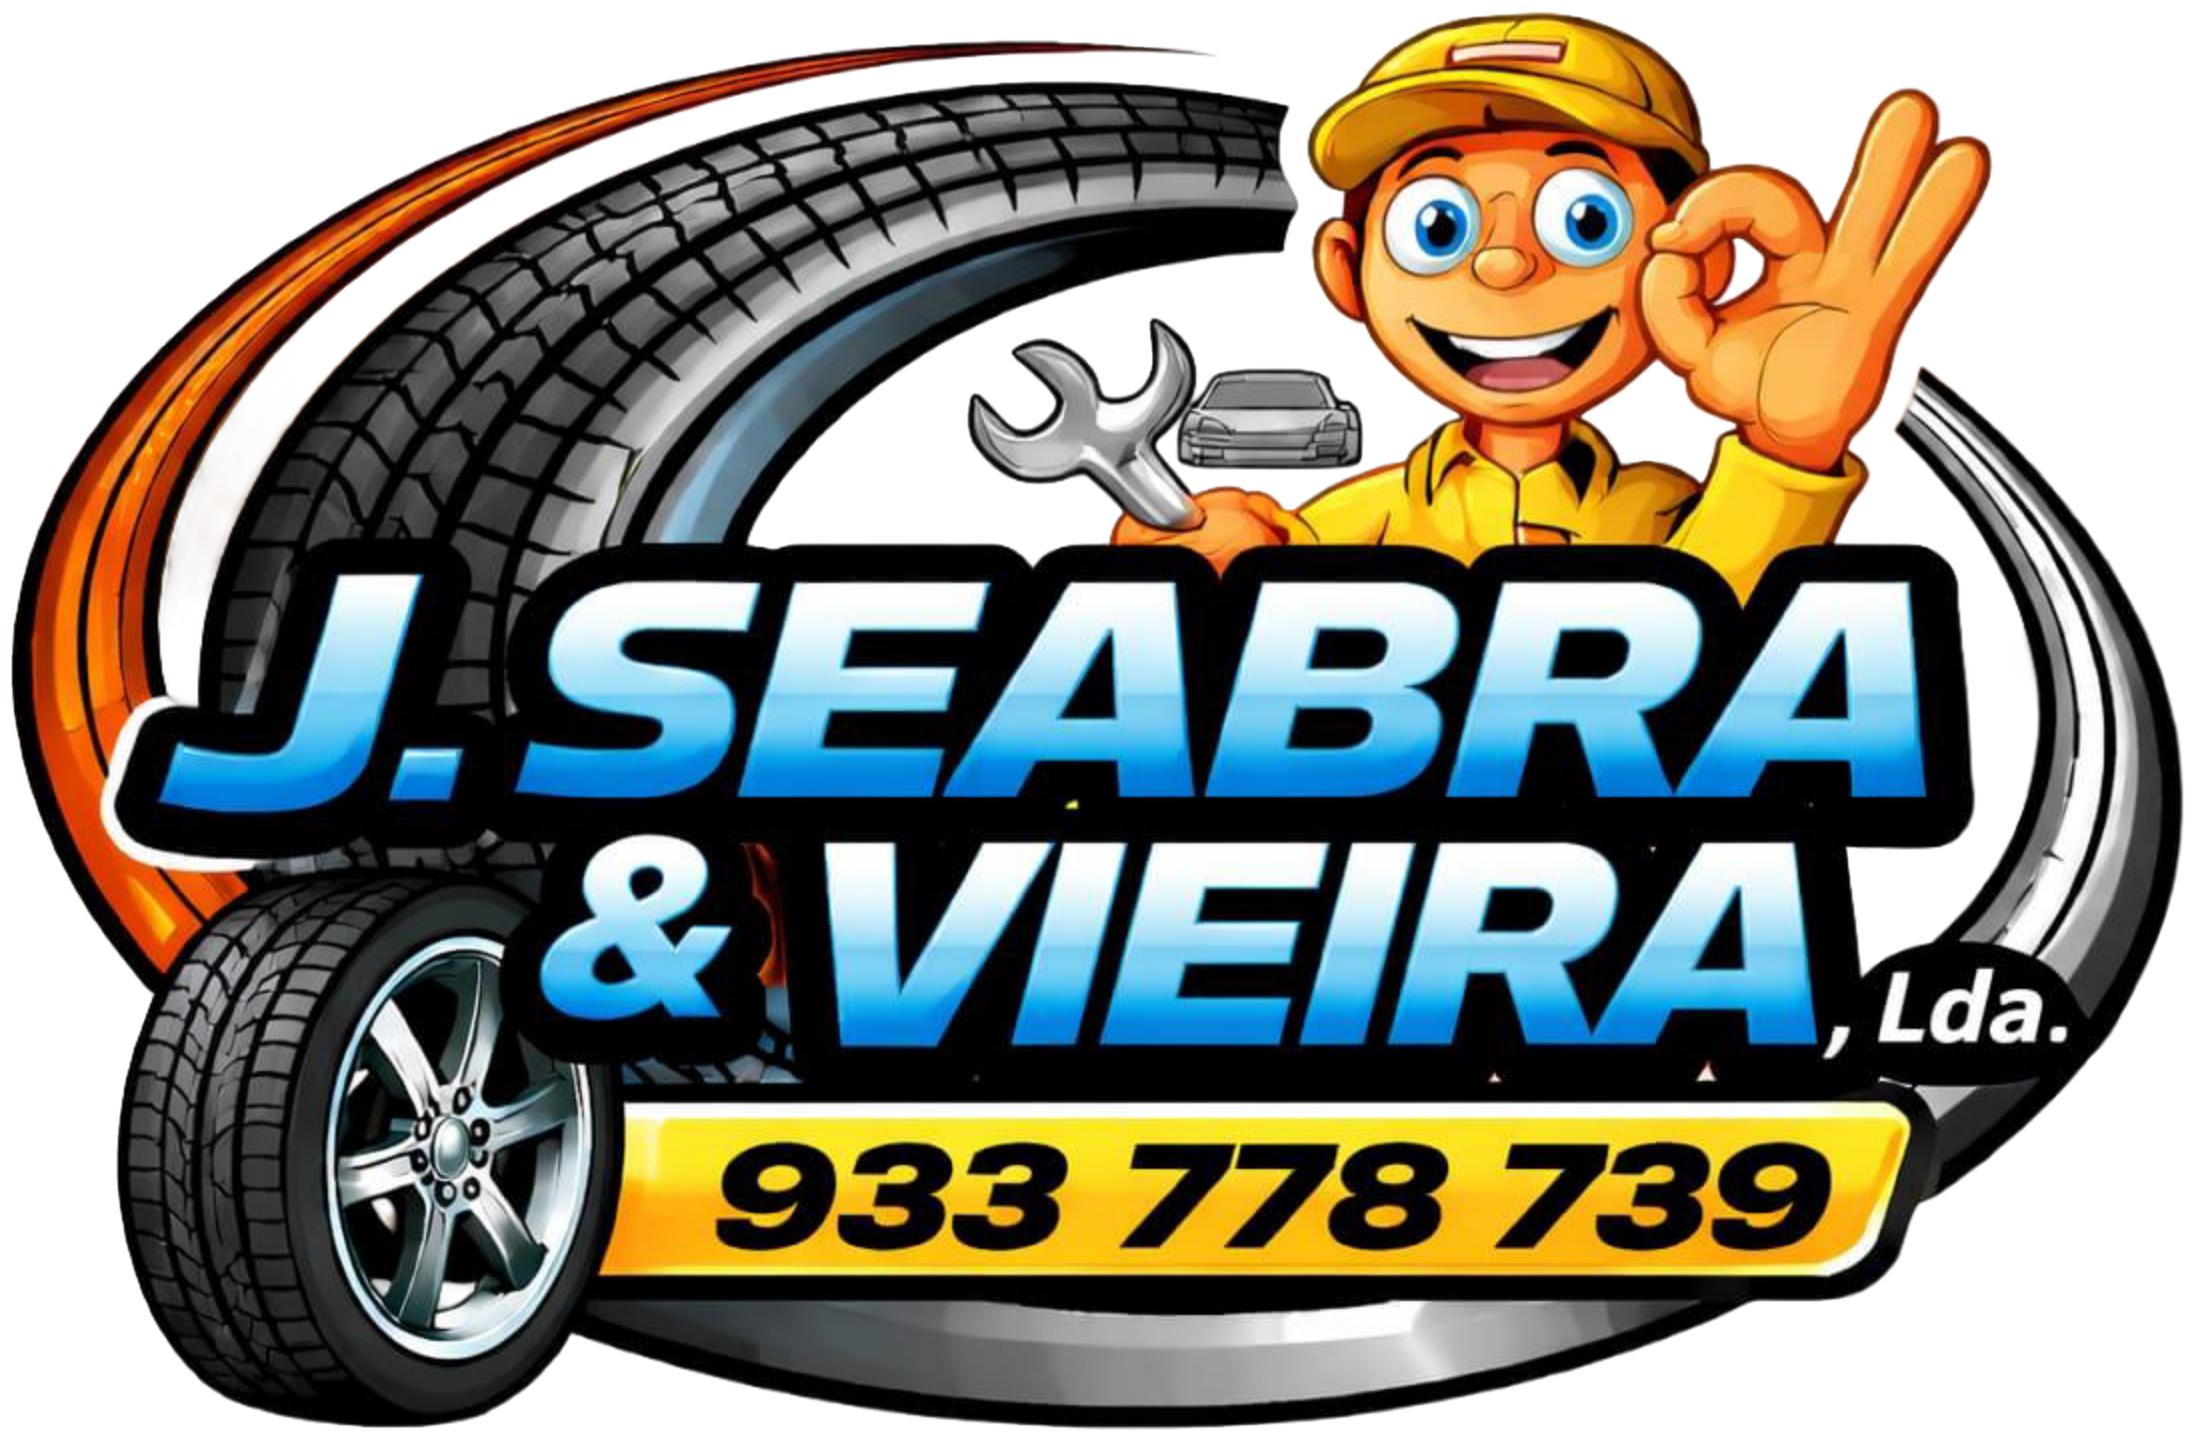
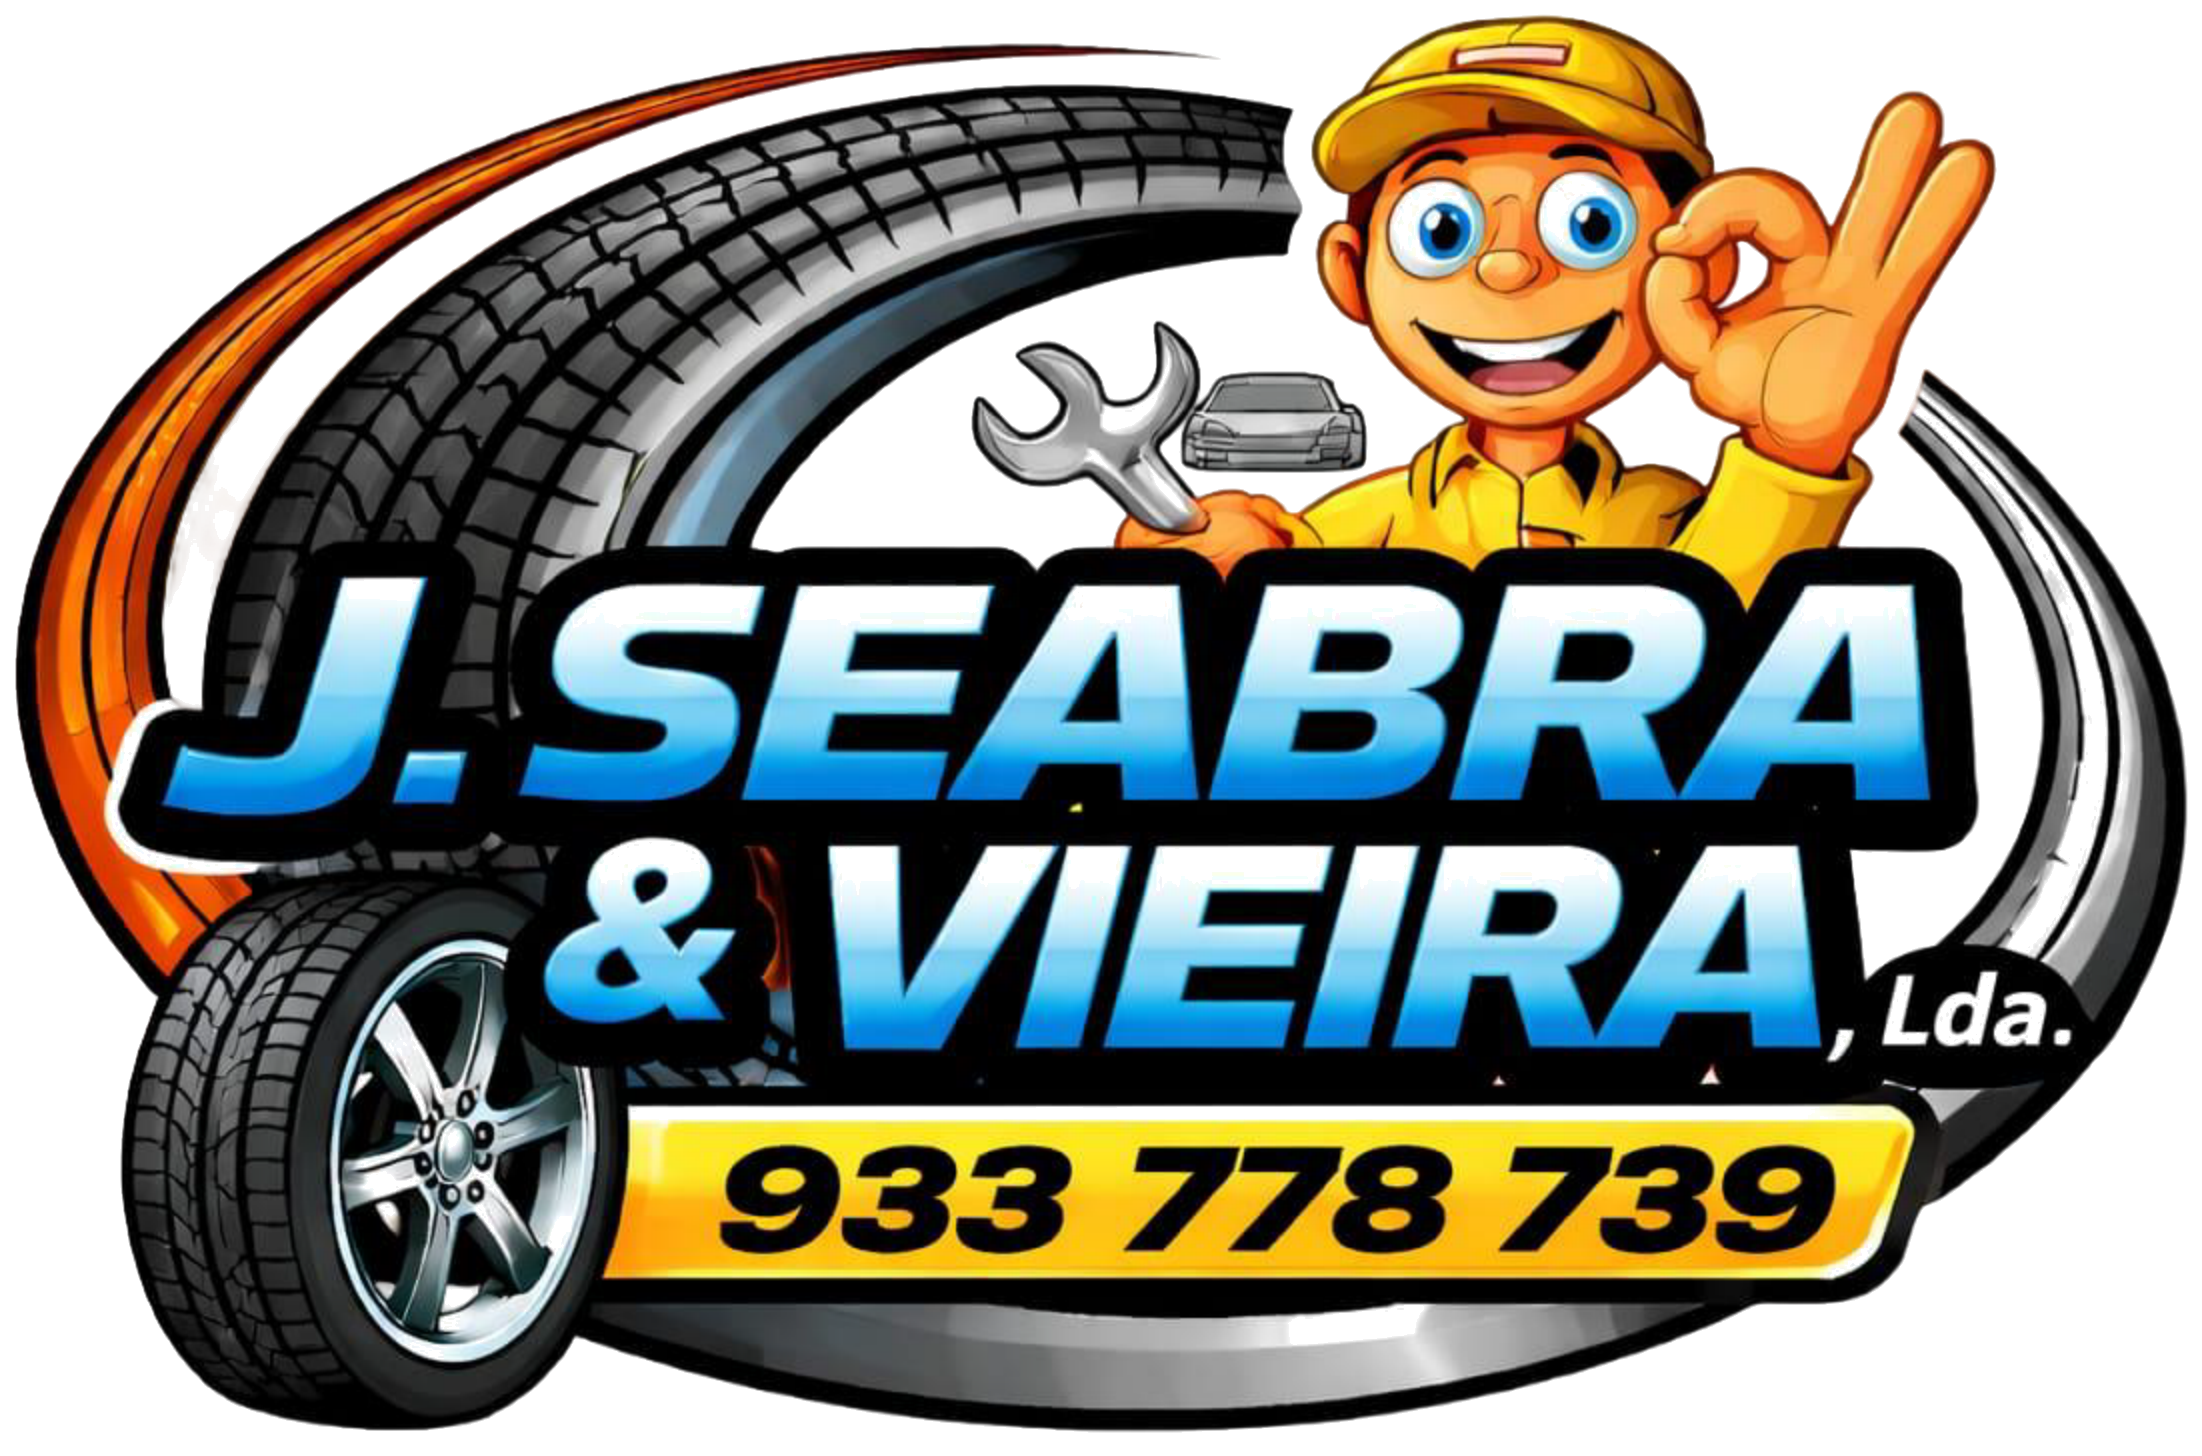
fix(patrocinadores): expandir fundo branco para Salimpa e Seabra e adicionar link oficial da Junta (vilardopinheiro.pt)

Changed region(s): [[0.0, 0.0, 1.0, 1.0], [0.7745, 0.0625, 0.9294, 0.2188], [0.2478, 0.25, 0.3098, 0.3438]]

diff --git a/index.html b/index.html
@@ -1025,10 +1025,15 @@
             Agradecemos o apoio institucional contínuo e a cedência das instalações do ringue polidesportivo, essenciais para a dinamização dos treinos, equipas jovens e participação nos JIF.
           </p>
         </div>
-        <div class="flex-shrink-0">
-          <a href="patrocinadores.html#apoio-junta" class="inline-flex items-center gap-1.5 px-4 py-2 rounded-xl bg-white/10 hover:bg-white/20 text-white font-heading font-semibold text-xs border border-white/20 transition-all">
-            <span>Ler Reconhecimento</span>
-            <i data-lucide="arrow-right" class="w-3.5 h-3.5"></i>
+        <div class="flex-shrink-0 flex flex-wrap sm:flex-col gap-2">
+          <a href="https://vilardopinheiro.pt" target="_blank" rel="noopener noreferrer" class="inline-flex items-center justify-center gap-1.5 px-3.5 py-2 rounded-xl bg-white text-emerald-950 hover:bg-emerald-50 font-heading font-bold text-xs shadow-md transition-all">
+            <i data-lucide="globe" class="w-3.5 h-3.5 text-emerald-700"></i>
+            <span>vilardopinheiro.pt</span>
+            <i data-lucide="external-link" class="w-3 h-3 text-slate-500"></i>
+          </a>
+          <a href="patrocinadores.html#apoio-junta" class="inline-flex items-center justify-center gap-1.5 px-3.5 py-1.5 rounded-xl bg-white/10 hover:bg-white/20 text-white font-heading font-semibold text-xs border border-white/20 transition-all">
+            <span>Reconhecimento</span>
+            <i data-lucide="arrow-right" class="w-3 h-3"></i>
           </a>
         </div>
       </div>
@@ -1067,7 +1072,7 @@
         <div class="grid grid-cols-1 md:grid-cols-3 gap-5">
           <!-- SALIMPA Facility Services (Oficial) -->
           <a href="patrocinadores.html#patrocinadores-principais" class="group p-5 rounded-3xl bg-white dark:bg-slate-800/90 border-2 border-teal-500/40 dark:border-teal-400/30 shadow-md hover:shadow-2xl transition-all duration-300 flex flex-col items-center justify-between text-center hover:-translate-y-1">
-            <div class="w-full h-32 bg-slate-50 dark:bg-slate-800 rounded-2xl flex items-center justify-center p-4 mb-4 group-hover:scale-102 transition-transform">
+            <div class="w-full h-36 bg-white rounded-2xl border border-slate-200/90 shadow-xs flex items-center justify-center p-5 mb-4 group-hover:scale-102 transition-transform">
               <picture>
                 <source srcset="assets/images/patrocinadores/salimpa.webp" type="image/webp">
                 <img src="assets/images/patrocinadores/salimpa.png" alt="SALIMPA Facility Services" loading="lazy" decoding="async" class="max-h-24 w-auto object-contain">
@@ -1081,10 +1086,10 @@
 
           <!-- Esplêndido e Destemido Canalizações -->
           <a href="patrocinadores.html#patrocinadores-principais" class="group p-5 rounded-3xl bg-white dark:bg-slate-800/90 border-2 border-amber-500/40 dark:border-amber-400/30 shadow-md hover:shadow-2xl transition-all duration-300 flex flex-col items-center justify-between text-center hover:-translate-y-1">
-            <div class="w-full h-32 bg-black rounded-2xl flex items-center justify-center p-3 mb-4 group-hover:scale-102 transition-transform">
+            <div class="w-full h-36 bg-black rounded-2xl border border-slate-800 shadow-xs flex items-center justify-center p-4 mb-4 group-hover:scale-102 transition-transform">
               <picture>
                 <source srcset="assets/images/patrocinadores/esplendido_destemido.webp" type="image/webp">
-                <img src="assets/images/patrocinadores/esplendido_destemido.png" alt="Esplêndido e Destemido Canalizações" loading="lazy" decoding="async" class="max-h-28 w-auto object-contain">
+                <img src="assets/images/patrocinadores/esplendido_destemido.png" alt="Esplêndido e Destemido Canalizações" loading="lazy" decoding="async" class="max-h-24 w-auto object-contain">
               </picture>
             </div>
             <div>
@@ -1095,7 +1100,7 @@
 
           <!-- J. Seabra & Vieira, Lda. (Oficial Colorido) -->
           <a href="patrocinadores.html#patrocinadores-principais" class="group p-5 rounded-3xl bg-white dark:bg-slate-800/90 border-2 border-blue-500/40 dark:border-blue-400/30 shadow-md hover:shadow-2xl transition-all duration-300 flex flex-col items-center justify-between text-center hover:-translate-y-1">
-            <div class="w-full h-32 bg-slate-50 dark:bg-slate-800 rounded-2xl flex items-center justify-center p-3 mb-4 group-hover:scale-102 transition-transform">
+            <div class="w-full h-36 bg-white rounded-2xl border border-slate-200/90 shadow-xs flex items-center justify-center p-4 mb-4 group-hover:scale-102 transition-transform">
               <picture>
                 <source srcset="assets/images/patrocinadores/seabra_vieira.webp" type="image/webp">
                 <img src="assets/images/patrocinadores/seabra_vieira.png" alt="J. Seabra & Vieira" loading="lazy" decoding="async" class="max-h-28 w-auto object-contain filter drop-shadow-sm">

diff --git a/patrocinadores.html b/patrocinadores.html
@@ -376,6 +376,13 @@
                 <span class="flex items-center gap-1.5"><i data-lucide="check" class="w-4 h-4 text-amber-400"></i> Apoio às Modalidades &amp; JIF</span>
                 <span class="flex items-center gap-1.5"><i data-lucide="check" class="w-4 h-4 text-amber-400"></i> "A Tua Terra Tem Futuro"</span>
               </div>
+              <div class="pt-3 flex flex-wrap items-center justify-center md:justify-start gap-3">
+                <a href="https://vilardopinheiro.pt" target="_blank" rel="noopener noreferrer" class="inline-flex items-center gap-2 px-4 py-2.5 rounded-xl bg-white text-emerald-950 hover:bg-emerald-50 font-heading font-bold text-xs shadow-md transition-all transform hover:-translate-y-0.5">
+                  <i data-lucide="globe" class="w-4 h-4 text-emerald-700"></i>
+                  <span>Visitar Site Oficial da Junta (vilardopinheiro.pt)</span>
+                  <i data-lucide="external-link" class="w-3.5 h-3.5 text-slate-500"></i>
+                </a>
+              </div>
             </div>
           </div>
         </div>
@@ -411,11 +418,11 @@
             </div>
 
             <div>
-              <!-- Header Visual / Logo Oficial Salimpa -->
-              <div class="h-56 bg-slate-50 dark:bg-slate-800/60 flex items-center justify-center p-6 border-b border-slate-100 dark:border-white/10">
+              <!-- Header Visual / Logo Oficial Salimpa (Fundo Branco Expandido) -->
+              <div class="h-60 sm:h-64 bg-white flex items-center justify-center p-6 sm:p-8 border-b border-slate-100 dark:border-white/10 relative overflow-hidden">
                 <picture>
                   <source srcset="assets/images/patrocinadores/salimpa.webp" type="image/webp">
-                  <img src="assets/images/patrocinadores/salimpa.png" alt="Logótipo Oficial SALIMPA Facility Services" loading="lazy" decoding="async" class="max-h-28 sm:max-h-32 w-auto object-contain transition-transform duration-300 group-hover:scale-105">
+                  <img src="assets/images/patrocinadores/salimpa.png" alt="Logótipo Oficial SALIMPA Facility Services" loading="lazy" decoding="async" class="max-h-36 sm:max-h-40 w-auto object-contain transition-transform duration-300 group-hover:scale-105">
                 </picture>
               </div>
 
@@ -469,7 +476,7 @@
 
             <div>
               <!-- Header Visual / Logo Oficial Esplêndido e Destemido -->
-              <div class="h-56 bg-black flex items-center justify-center p-6 border-b border-slate-100 dark:border-white/10">
+              <div class="h-60 sm:h-64 bg-black flex items-center justify-center p-6 sm:p-8 border-b border-slate-100 dark:border-white/10 relative overflow-hidden">
                 <picture>
                   <source srcset="assets/images/patrocinadores/esplendido_destemido.webp" type="image/webp">
                   <img src="assets/images/patrocinadores/esplendido_destemido.png" alt="Logótipo Esplêndido e Destemido Canalizações" loading="lazy" decoding="async" class="max-h-36 sm:max-h-40 w-auto object-contain transition-transform duration-300 group-hover:scale-105">
@@ -528,11 +535,11 @@
             </div>
 
             <div>
-              <!-- Header Visual / Logo Oficial Seabra & Vieira (Colorido) -->
-              <div class="h-56 bg-slate-50 dark:bg-slate-800/60 flex items-center justify-center p-4 border-b border-slate-100 dark:border-white/10">
+              <!-- Header Visual / Logo Oficial Seabra & Vieira (Fundo Branco Expandido) -->
+              <div class="h-60 sm:h-64 bg-white flex items-center justify-center p-6 sm:p-8 border-b border-slate-100 dark:border-white/10 relative overflow-hidden">
                 <picture>
                   <source srcset="assets/images/patrocinadores/seabra_vieira.webp" type="image/webp">
-                  <img src="assets/images/patrocinadores/seabra_vieira.png" alt="Logótipo Oficial J. Seabra & Vieira, Lda." loading="lazy" decoding="async" class="max-h-36 sm:max-h-40 w-auto object-contain transition-transform duration-300 group-hover:scale-105 filter drop-shadow-md">
+                  <img src="assets/images/patrocinadores/seabra_vieira.png" alt="Logótipo Oficial J. Seabra & Vieira, Lda." loading="lazy" decoding="async" class="max-h-40 sm:max-h-44 w-auto object-contain transition-transform duration-300 group-hover:scale-105 filter drop-shadow-md">
                 </picture>
               </div>
 

diff --git a/clube.html b/clube.html
@@ -675,10 +675,17 @@
           <div class="h-56 rounded-2xl overflow-hidden border border-slate-200">
             <iframe title="Mapa Junta de Freguesia" src="https://maps.google.com/maps?q=Junta+de+Freguesia+de+Vilar+do+Pinheiro&z=17&output=embed" class="w-full h-full border-0" loading="lazy"></iframe>
           </div>
-          <a href="https://maps.google.com/?q=Junta+de+Freguesia+de+Vilar+do+Pinheiro" target="_blank" rel="noopener noreferrer" class="text-xs font-bold text-brand-green hover:underline flex items-center justify-between pt-1">
-            <span>Traçar Rota no Google Maps</span>
-            <i data-lucide="arrow-right" class="w-4 h-4"></i>
-          </a>
+          <div class="pt-1 flex items-center justify-between flex-wrap gap-2 text-xs font-bold">
+            <a href="https://vilardopinheiro.pt" target="_blank" rel="noopener noreferrer" class="text-emerald-700 dark:text-emerald-400 hover:underline flex items-center gap-1.5">
+              <i data-lucide="globe" class="w-3.5 h-3.5"></i>
+              <span>Site Oficial: vilardopinheiro.pt</span>
+              <i data-lucide="external-link" class="w-3 h-3 text-slate-400"></i>
+            </a>
+            <a href="https://maps.google.com/?q=Junta+de+Freguesia+de+Vilar+do+Pinheiro" target="_blank" rel="noopener noreferrer" class="text-brand-green hover:underline flex items-center gap-1">
+              <span>Google Maps</span>
+              <i data-lucide="arrow-right" class="w-3.5 h-3.5"></i>
+            </a>
+          </div>
         </div>
 
       </div>
